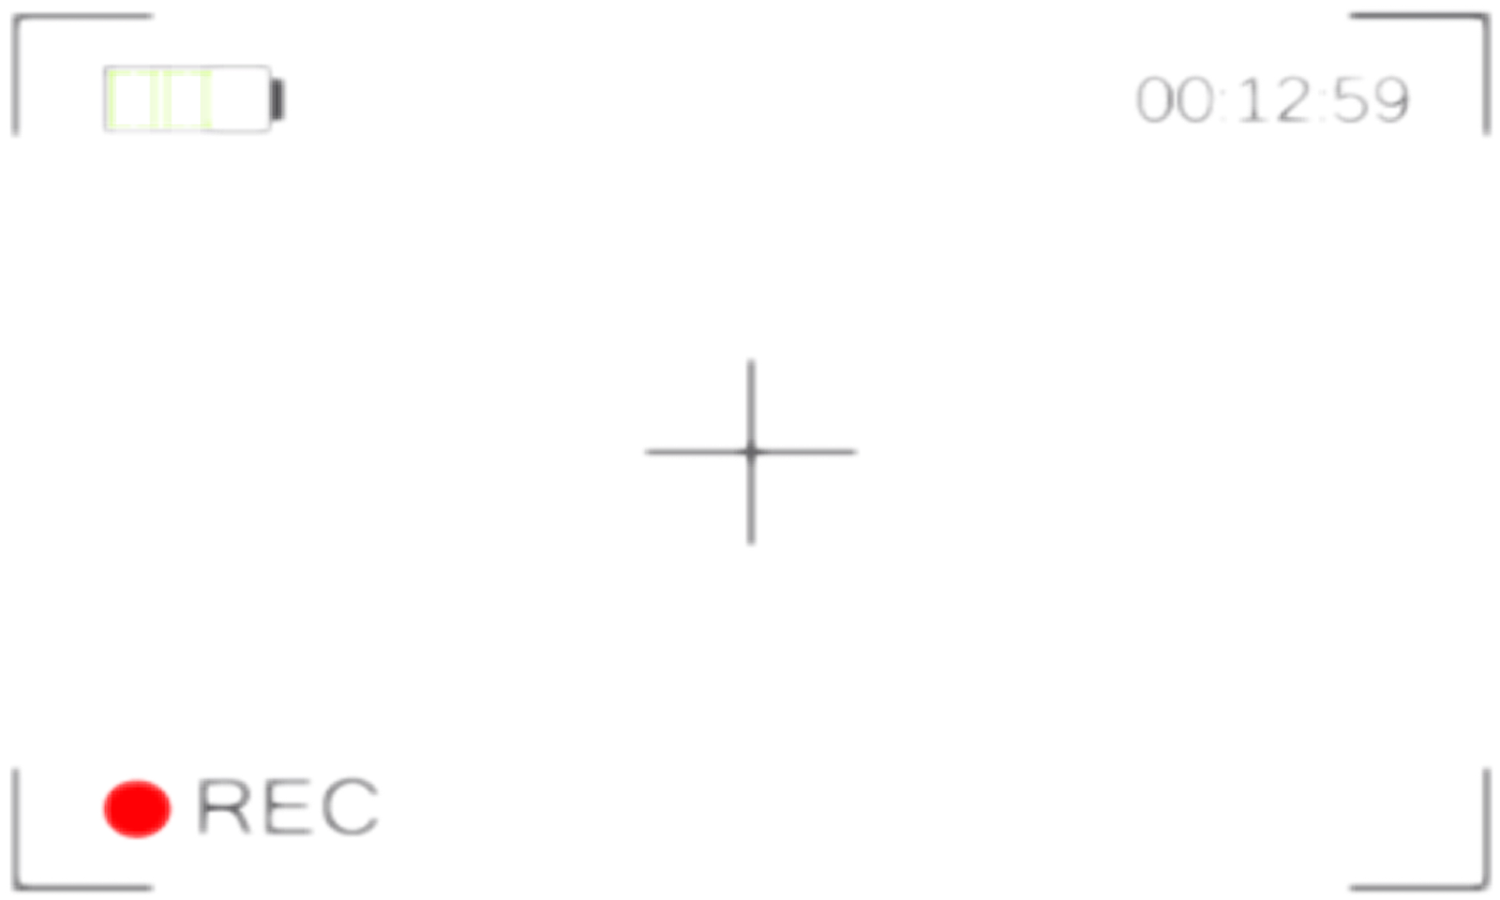
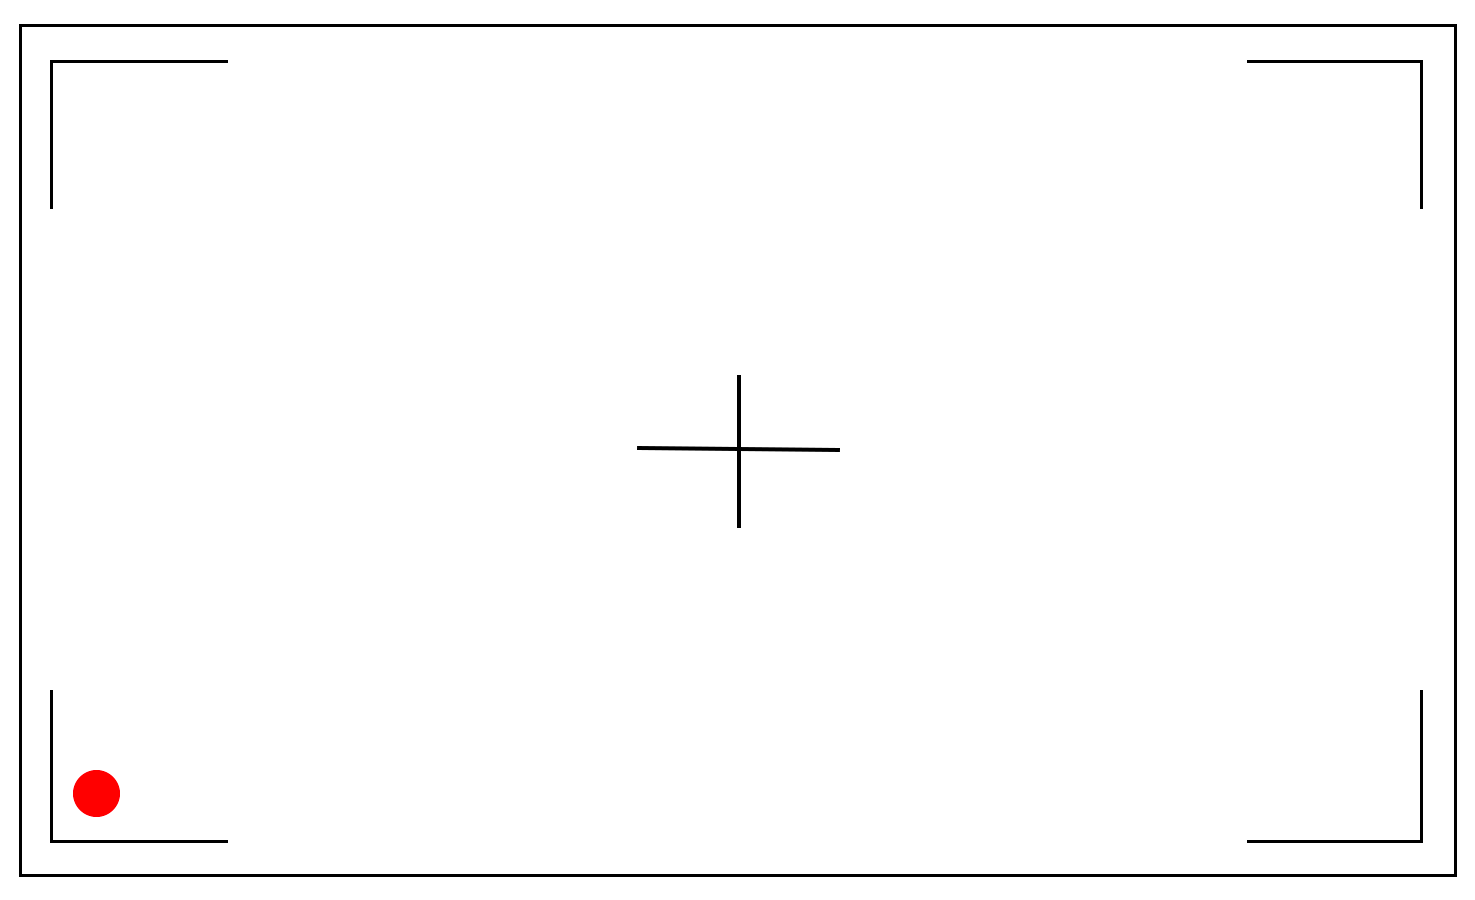
photo done
must add the playing functions
onto the moo

Changed region(s): [[0.0, 0.0, 0.998, 0.1556], [0.0, 0.84, 0.998, 0.9956], [0.4366, 0.4044, 0.5614, 0.5911]]

diff --git a/photobomb.py b/photobomb.py
@@ -3,7 +3,6 @@ import os
 import sys
 import pygame
 import math, time, random
-import random
 from enum import Enum
 from pygame.locals import *
 pygame.display.set_caption("Photobomb")
@@ -27,6 +26,19 @@ class Photobomb:
         self.font = pygame.font.Font('font/CoffeeTin.ttf', 150)
         self.font2 = pygame.font.Font('font/IndianPoker.ttf', 75)
         self.font2.set_bold(True)
+        self.f1=pygame.image.load(r'People/France_people1.png').convert_alpha()
+        self.f2=pygame.image.load(r'People/France_people2.png').convert_alpha()
+        self.f3=pygame.image.load(r'People/France_people3.png').convert_alpha()
+        self.h1=pygame.image.load(r'People/Hawaii_people1.png').convert_alpha()
+        self.h2=pygame.image.load(r'People/Hawaii_people2.png').convert_alpha()
+        self.h3=pygame.image.load(r'People/Hawaii_people3.png').convert_alpha()
+        self.i1=pygame.image.load(r'People/India_people1.png').convert_alpha()
+        self.i2=pygame.image.load(r'People/India_people2.png').convert_alpha()
+        self.i3=pygame.image.load(r'People/India_people3.png').convert_alpha()
+        self.people=[self.h1,self.h2,self.h3]
+        self.leftcow=pygame.image.load(r'cowleft.png').convert_alpha()
+        self.rightcow=pygame.image.load(r'cowright.png').convert_alpha()
+        
         self.startText = self.font2.render("Ready to Photobomb?", 1, (randcol()))
         self.startSize = self.font2.size("Ready to Photobomb?")
         
@@ -142,24 +154,30 @@ class Photobomb:
                 SCREEN = pygame.display.set_mode((event.w, event.h), pygame.RESIZABLE)
                 WIDTH = event.w
                 HEIGHT = event.h
-            # when the user chooses the info change to the playing state
+            # when the user chooses the info, change to the playing state
             elif event.type == pygame.MOUSEBUTTONDOWN:
                 if event.button == 1:
                     if self.place1Rect.collidepoint(event.pos):
                         self.selectedPlace=Places.Hawaii
                         self.thirdbg=pygame.image.load(r'hawaii.jpeg').convert_alpha()
-                    if self.place2Rect.collidepoint(event.pos):
+                        self.people=[self.h1,self.h2,self.h3]  
+                    elif self.place2Rect.collidepoint(event.pos):
                         self.selectedPlace=Places.France
                         self.thirdbg=pygame.image.load(r'france.jpeg').convert_alpha()
-                    if self.place3Rect.collidepoint(event.pos):
+                        self.people=[self.f1,self.f2,self.f3]
+                    elif self.place3Rect.collidepoint(event.pos):
                         self.selectedPlace=Places.India
                         self.thirdbg=pygame.image.load(r'india.jpeg').convert_alpha()
+                        self.people=[self.i1,self.i2,self.i3]
+                        
                     if self.vic1Rect.collidepoint(event.pos):
                         self.selectedVictim=Victims.Shubham
-                    if self.vic2Rect.collidepoint(event.pos):
+                    elif self.vic2Rect.collidepoint(event.pos):
                         self.selectedVictim=Victims.Robert
-                    if self.vic3Rect.collidepoint(event.pos):
+                    elif self.vic3Rect.collidepoint(event.pos):
                         self.selectedVictim=Victims.Pronamee
+                        
+                    self.person=random.choice(self.people)
                     if self.playButtonRect.collidepoint(event.pos):
                         self.state=2
         
@@ -234,12 +252,8 @@ class Photobomb:
                         self.state = 1
                         return
             SCREEN.blit(self.thirdbg,(0,0))
+            SCREEN.blit(self.person,(0,0))
             SCREEN.blit(self.cameraoverlay,(0,0))
-            # draw the start button
-            #pygame.draw.rect(SCREEN, green, self.startButtonRect)
-            #pygame.draw.rect(SCREEN, black, self.startButtonRectOutline, 2)
-            #SCREEN.blit(self.startButton, self.startButtonLoc)
-            #SCREEN.blit(self.startText, self.startLoc)
             pygame.display.flip()
 
     
